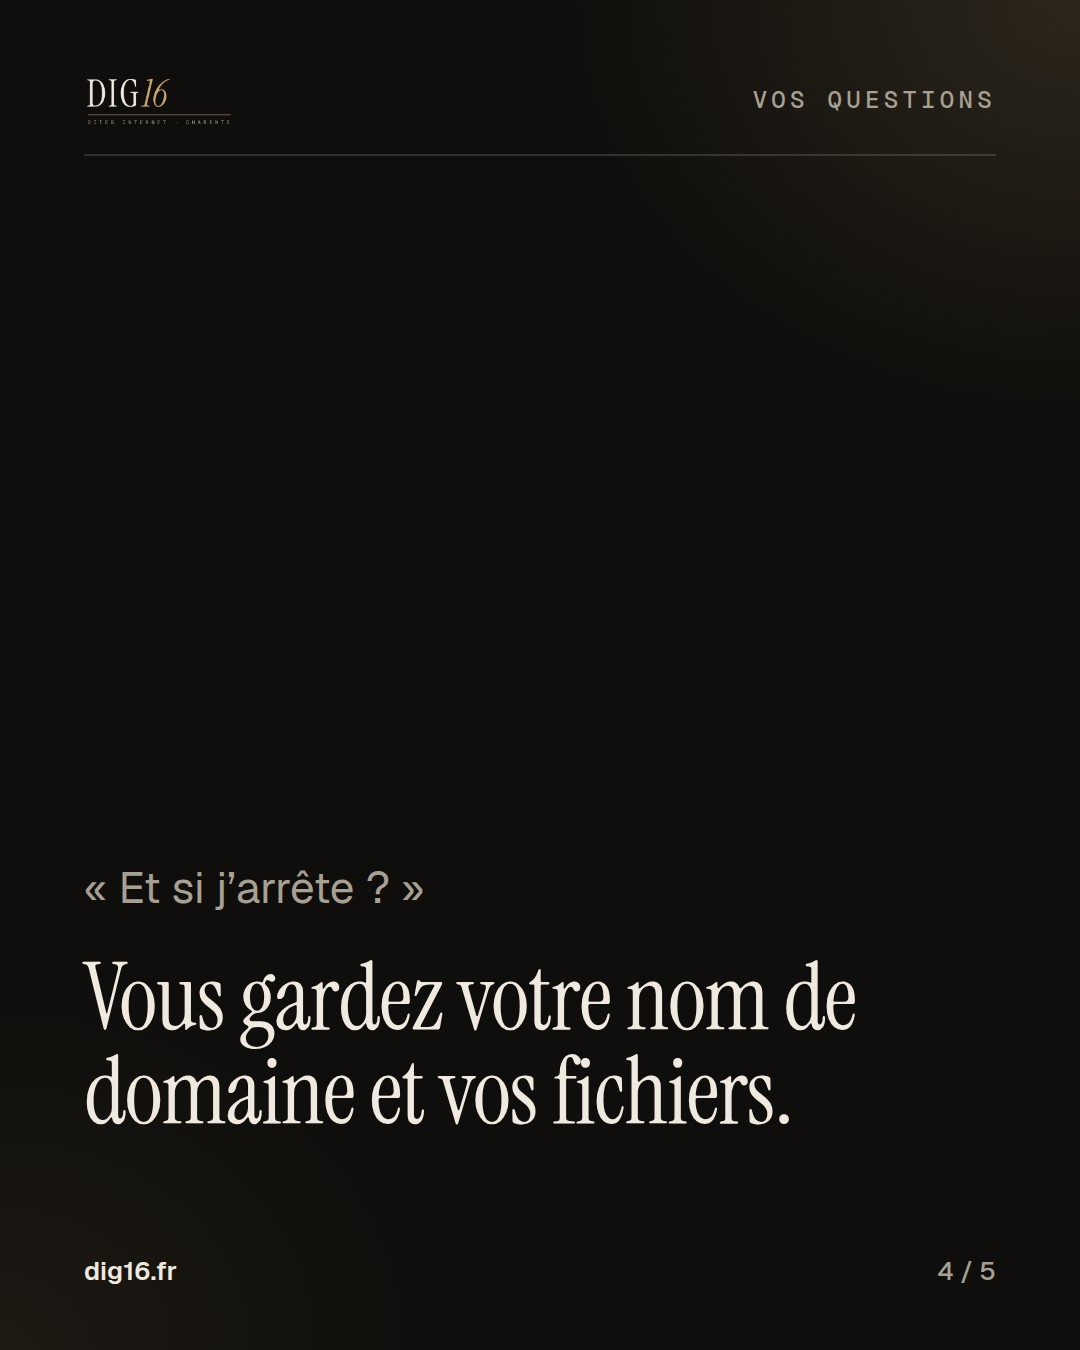
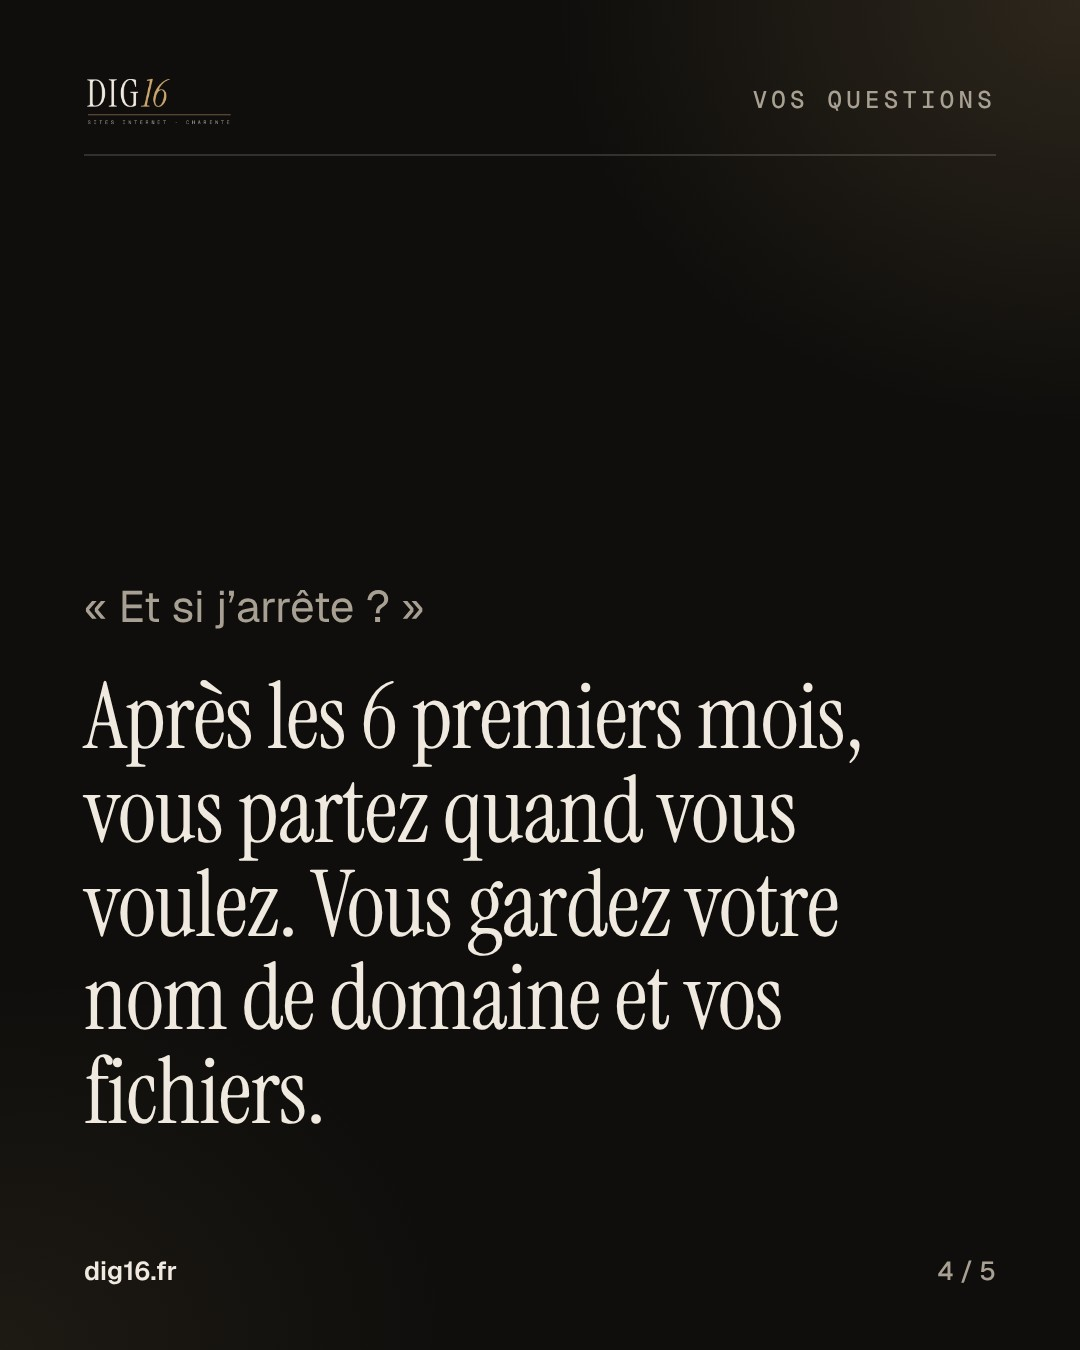
Publication du 07/12 : réponse « Et si j'arrête ? » alignée sur les 6 premiers mois
Claude-Session: https://claude.ai/code/session_01BJSfhbUNTPXoqbDciKFmMo

Changed region(s): [[0.0611, 0.4978, 0.7944, 0.84], [0.0917, 0.4356, 0.3972, 0.4667], [0.0917, 0.9333, 0.1528, 0.9644]]

diff --git a/ai-business-lab/chasse-demande/outils/marque/publications_v2.py b/ai-business-lab/chasse-demande/outils/marque/publications_v2.py
@@ -249,12 +249,13 @@ SERIE = [
          ("cover", "Les questions *qu'on me pose le plus.*", "Et les réponses, sans détour."),
          ("qr", "Je dois écrire les textes ?", "Non : je les rédige avec vous."),
          ("qr", "Je peux modifier mon site ?", "Oui : envoyez-moi un email, c'est fait en 3 jours ouvrés."),
-         ("qr", "Et si j'arrête ?", "Vous gardez votre nom de domaine et vos fichiers."),
+         ("qr", "Et si j'arrête ?", "Après les 6 premiers mois, vous partez quand vous voulez. Vous gardez votre nom de domaine et vos fichiers."),
          APPEL],
      "legende": "Les questions qu'on me pose le plus 💬\n"
                 "« Je dois écrire les textes ? » Non, je les rédige avec vous.\n"
                 "« Je peux modifier mon site ? » Oui, envoyez-moi un email, c'est fait en 3 jours ouvrés.\n"
-                "« Et si j'arrête ? » Vous gardez votre nom de domaine et vos fichiers.",
+                "« Et si j'arrête ? » Après les 6 premiers mois, vous partez quand vous voulez, et vous gardez votre nom de "
+                "domaine et vos fichiers.",
      "alt": "Les 3 questions les plus posées à DIG16, avec leurs réponses."},
     {"id": "p18", "date": "2026-12-02T18:30:00", "theme": "clair", "etiquette": "Le conseil", "metricool": 392401018,
      "titre_tiktok": "Préparez votre saison dès maintenant",

diff --git a/ai-business-lab/chasse-demande/64-mise-en-ordre-administrative.md b/ai-business-lab/chasse-demande/64-mise-en-ordre-administrative.md
@@ -46,7 +46,7 @@ la déplacer à la fin de ce fichier d'archives, sans la réécrire.
 | Organisation | **Suites du 12/11, à faire par Claude sans rien demander** (demande redite le 13/11 : « que TOUT soit irréprochable et mis à jour au fur et à mesure ») : 1) régénérer les PDF alignés sur le site du 12/11 (antisèche d'appels, guide de prospection, questionnaire, kit client) et les copier au Drive ; 2) dossier de l'avocat (CGV art. 9 et propriété, Prestige 12 mois, kit, rétractation, médiation, paiement) : **permanence du 19/11 annulée par l'utilisateur (indisponible, message du 18/11) ; reportée au jeudi 17/12, 14 h 30-17 h 30 (justice.gouv.fr lu le 18/11) ; dossier refait et envoyé le 16/12 au matin par le rappel trig_014RqUTCZxZEawFTPdhjMMHp** ; 3) liste des commerces de Ruffec pour la tournée des flyers (18 ou 19/11) ; 4) publication `p17` du 07/12 à relire (phrases changées sur le site) ; 5) lot d'appels du 17/11 revérifié le jour même (**FAIT le 17/11 à 8 h 40** : 6 entreprises actives au registre, fiches datées du jour envoyées et au Drive) ; 6) phrase pour demander l'accord du journal (rappel du 24/11) ; 7) protection du formulaire : **faite le 13/11** (« oui protection », messages douteux étiquetés et jamais rejetés, essai réel réussi sur dig16.fr) ; 8) alerte par mail GitHub à chaque vrai message (« oui alerte » du 13/11) : point de lecture en ligne et vérifié, **fait le 13/11** : demande de fusion n° 176 fusionnée à sa demande, essai réel réussi (message d'essai n° 17 → issue n° 177 ouverte en moins d'une minute) ; reste à confirmer par l'utilisateur que le mail de GitHub lui arrive bien | Claude | En cours ; **16/11 : 1) FAIT** (antisèche, guide, questionnaire de découverte (version datée du 12/11) et questionnaire de lancement régénérés ; les deux questionnaires rendus remplissables au clavier, outil `pdf_remplissable.py` corrigé : lignes sous un texte d'aide et filet du pied de page ; 4 PDF au Drive « Dig » ; kit client : généré à chaque client, rien à refaire) ; **4) relu** : un écart sur la diapositive 4 de `p17` (« Vous gardez votre nom de domaine et vos fichiers » sans la condition des 6 premiers mois) : à trancher après l'avocat du 19/11 (propriété, CGV art. 9), puis question fermée à l'utilisateur ; **6) FAIT** : phrase prête (`supports/publications-v2/presse-charente-libre-1111.md` § 10) ; 13/11 : image de signature et coordonnées restaurées et copiées au Drive, `playwright` ajouté aux dépendances, zone de notes de la fiche d'appels agrandie |
 | Référencement | **15/11 (décision du 16/11 : NON, catégorie non ajoutée ; ne plus la reproposer sauf demande) : fiche Google comparée à 15 concurrents de Charente** (`67` § 7, fin) : proposé à l'utilisateur d'ajouter la catégorie supplémentaire « Service de marketing Internet » (seule réelle) ; risque : Google peut redemander la validation. Avis : rien avant le premier client. | utilisateur (décision) | en attente de sa réponse |
 | Statistiques | **16/11 : point de la semaine du 09 au 15/11** (Metricool + Search Console) : site 25 visiteurs (23 la semaine d'avant), Google 13 clics (0 avant), Instagram 1 036 vues (368), Facebook 722 vues (372), YouTube 250 vues (169), TikTok 1 réaction (vues non transmises), fiche Google 0 ; DIG16 visible dans l'annuaire des commerçants de la mairie de Ruffec (2 visites) ; envoyé à l'utilisateur ; réponse : 0 message privé, 2 partages dans les groupes Facebook | FAIT | Mesurer avant de changer |
-| Juridique | **18/11 : conditions de vente contrôlées contre les textes** (`74`, demande « irréprochable en t'appuyant sur le Droit ») : 2 versions divergentes (modèle du kit et projet v2 du Drive) à réunir ; 3 corrections fondées sur la loi (demande expresse L221-25, somme due si départ avant la fin de l'engagement, sous-traitance RGPD art. 28) ; **v3 écrite le 18/11 après le « oui CGV v3 »**, relue par un agent indépendant, 10 corrections appliquées (`74` § 5), PDF envoyés et au Drive | **18/11 « site aligné » : phrase du site sur la propriété alignée sur l'article 9 et mise en ligne (`74` § 6)** ; flyer A5 aligné le 18/11 (nouveau fichier d'impression au Drive) ; utilisateur : dire si l'image du 07/12 est alignée aussi ; points restants à l'avocat le 17/12 | v3 faite, site aligné |
+| Juridique | **18/11 : conditions de vente contrôlées contre les textes** (`74`, demande « irréprochable en t'appuyant sur le Droit ») : 2 versions divergentes (modèle du kit et projet v2 du Drive) à réunir ; 3 corrections fondées sur la loi (demande expresse L221-25, somme due si départ avant la fin de l'engagement, sous-traitance RGPD art. 28) ; **v3 écrite le 18/11 après le « oui CGV v3 »**, relue par un agent indépendant, 10 corrections appliquées (`74` § 5), PDF envoyés et au Drive | **18/11 « site aligné » : phrase du site sur la propriété alignée sur l'article 9 et mise en ligne (`74` § 6)** ; flyer A5 aligné le 18/11 (nouveau fichier d'impression au Drive) ; publication du 07/12 (p17) : « ajoute les 6 mois » reçu le 18/11, image 4 et légende refaites, aperçu envoyé ; utilisateur : « oui image » pour le remplacement dans Metricool (id 424477874) ; points restants à l'avocat le 17/12 | v3 faite, site aligné |
 | Réseaux | **17/11 : trou du mar. 01/12 comblé** : conseil 6 « Pensé pour le téléphone » à 12 h 15, TikTok programmé par Buffer ; Instagram et Facebook programmés par Metricool le 17/11 au soir (id 431990393) après l'autorisation écrite de l'utilisateur d'inscrire le compte de décembre (7 → 8 publications sur 20) | FAIT | Aucun jour ouvré vide |
 | Réseaux | **16/11 : trou du lun. 30/11 comblé** : conseil 7 « La fiche Google » programmé par Buffer à 18 h 30 sur Facebook (reel) et TikTok ; **Instagram ajouté le 16/11 au soir** dès qu'une place s'est libérée (story du 16/11 partie) ; rappel du 23/11 supprimé | FAIT | Aucun jour ouvré vide |
 | Organisation | **14/11 : 13 vidéos et 1 lien envoyés par l'utilisateur, tous résumés, triés et inscrits au registre** (`46-registre-videos.md`, fin). Rien à installer ; 1 règle ajoutée (page d'accueil d'abord) ; 6 idées en réserve. **À faire au garde-fou du 20/11 (étape 7, contexte à jour)** : lire le guide officiel d'Anthropic pour le modèle en cours (page à dater à la source), le comparer à `.claude/CLAUDE.md` et aux consignes, lister les règles en double ou écrites pour d'anciens modèles ; rien n'est retiré sans l'accord de l'utilisateur (idée de la vidéo 01PjHPr-rd8). | Claude | 20/11 |
